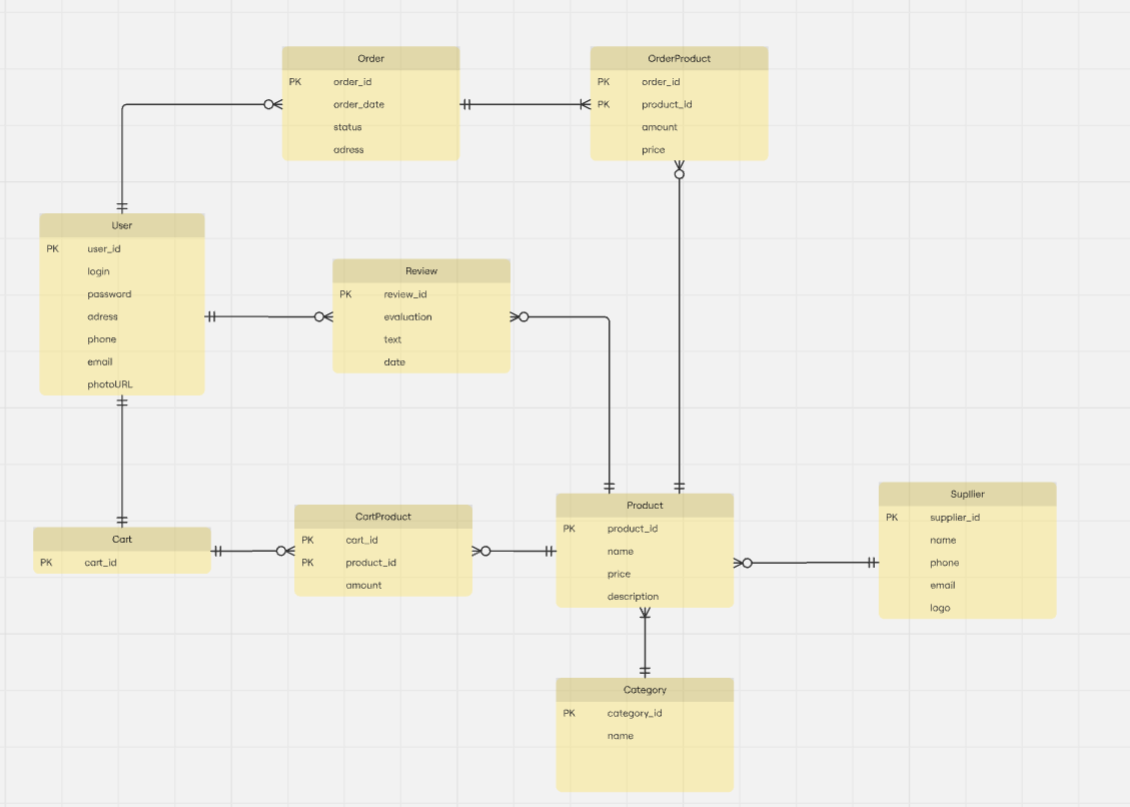
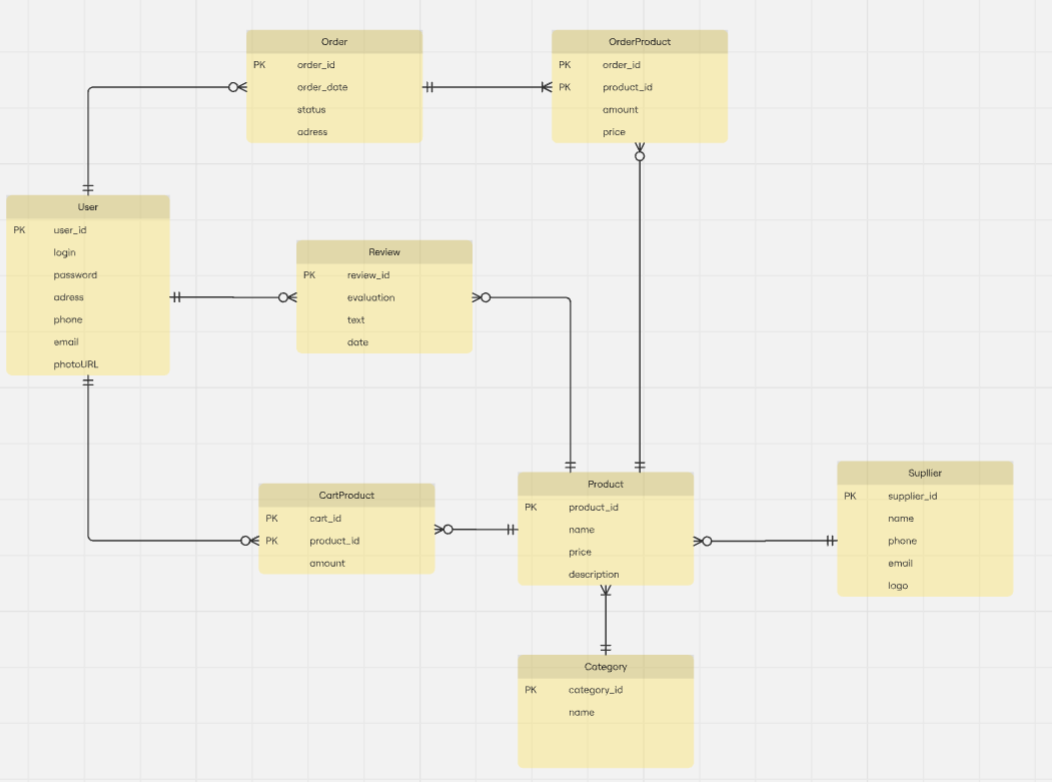
update lab1

diff --git a/lab1/description.md b/lab1/description.md
@@ -29,9 +29,6 @@ User - Зберігає інформацію про зареєстрованих
 + adress, phone, email: Контактна інформація.
 + photoURL: Посилання на зображення профілю.
 
-Cart - Представляє кошик користувача.
-+ cart_id (PK): Унікальний ідентифікатор кошика.
-
 Product - Зберігає інформацію про товари в каталозі.
 + product_id (PK): Унікальний ідентифікатор товару.
 + name: Назва
@@ -61,7 +58,7 @@ Supplier - Довідник постачальників товарів.
 
 CartProduct(асоціативна сутність)
 + product_id (FK): Ідентифікатор товару.
-+ cart_id (FK): Ідентифікатор кошика.
++ user_id (FK): Ідентифікатор кошика.
 + amount: Кількість одиниць товару.
 
 OrderProduct(асоціативна сутність)
@@ -71,8 +68,6 @@ OrderProduct(асоціативна сутність)
 + price: Ціна товару на момент покупки.
 
 ## Поясненння зв'зків
-+ User - Cart (один-до-одного): Кожен користувач має один персональний кошик, і кожен кошик належить лише одному користувачеві. Це забезпечує унікальність кошика для кожного клієнта.
-
 + User - Order (один-до-багатьох): Один користувач може створити багато замовлень, але кожне замовлення пов'язане лише з одним користувачем, який його оформив.
 
 + User - Review (один-до-багатьох): Користувач може написати багато відгуків на різні товари, проте кожен конкретний відгук залишений одним унікальним користувачем.
@@ -83,7 +78,7 @@ OrderProduct(асоціативна сутність)
 
 + Supplier - Product (один-до-багатьох): Один постачальник може постачати багато різних товарів, але кожен товар має лише одного постачальника.
 
-+ Cart - Product (багато-до-багатьох через CartProduct): Один кошик може містити багато різних товарів, і один і той же товар може одночасно знаходитись у кошиках багатьох користувачів. Зв'язок реалізовано через проміжну таблицю CartProduct, яка зберігає кількість (amount) кожного товару в кожному кошику.
++ User - Product (багато-до-багатьох через CartProduct): Один користувач може містити багато різних товарів, і один і той же товар може одночасно знаходитись у кошиках багатьох користувачів. Зв'язок реалізовано через проміжну таблицю CartProduct, яка зберігає кількість (amount) кожного товару в кожному кошику користувача.
 
 + Order - Product (багато-до-багатьох через OrderProduct): Одне замовлення може включати багато товарів, і один товар може бути частиною багатьох різних замовлень. Таблиця OrderProduct фіксує, які товари, в якій кількості та за якою ціною були включені до конкретного замовлення.
 ## Припущення та обмеження
